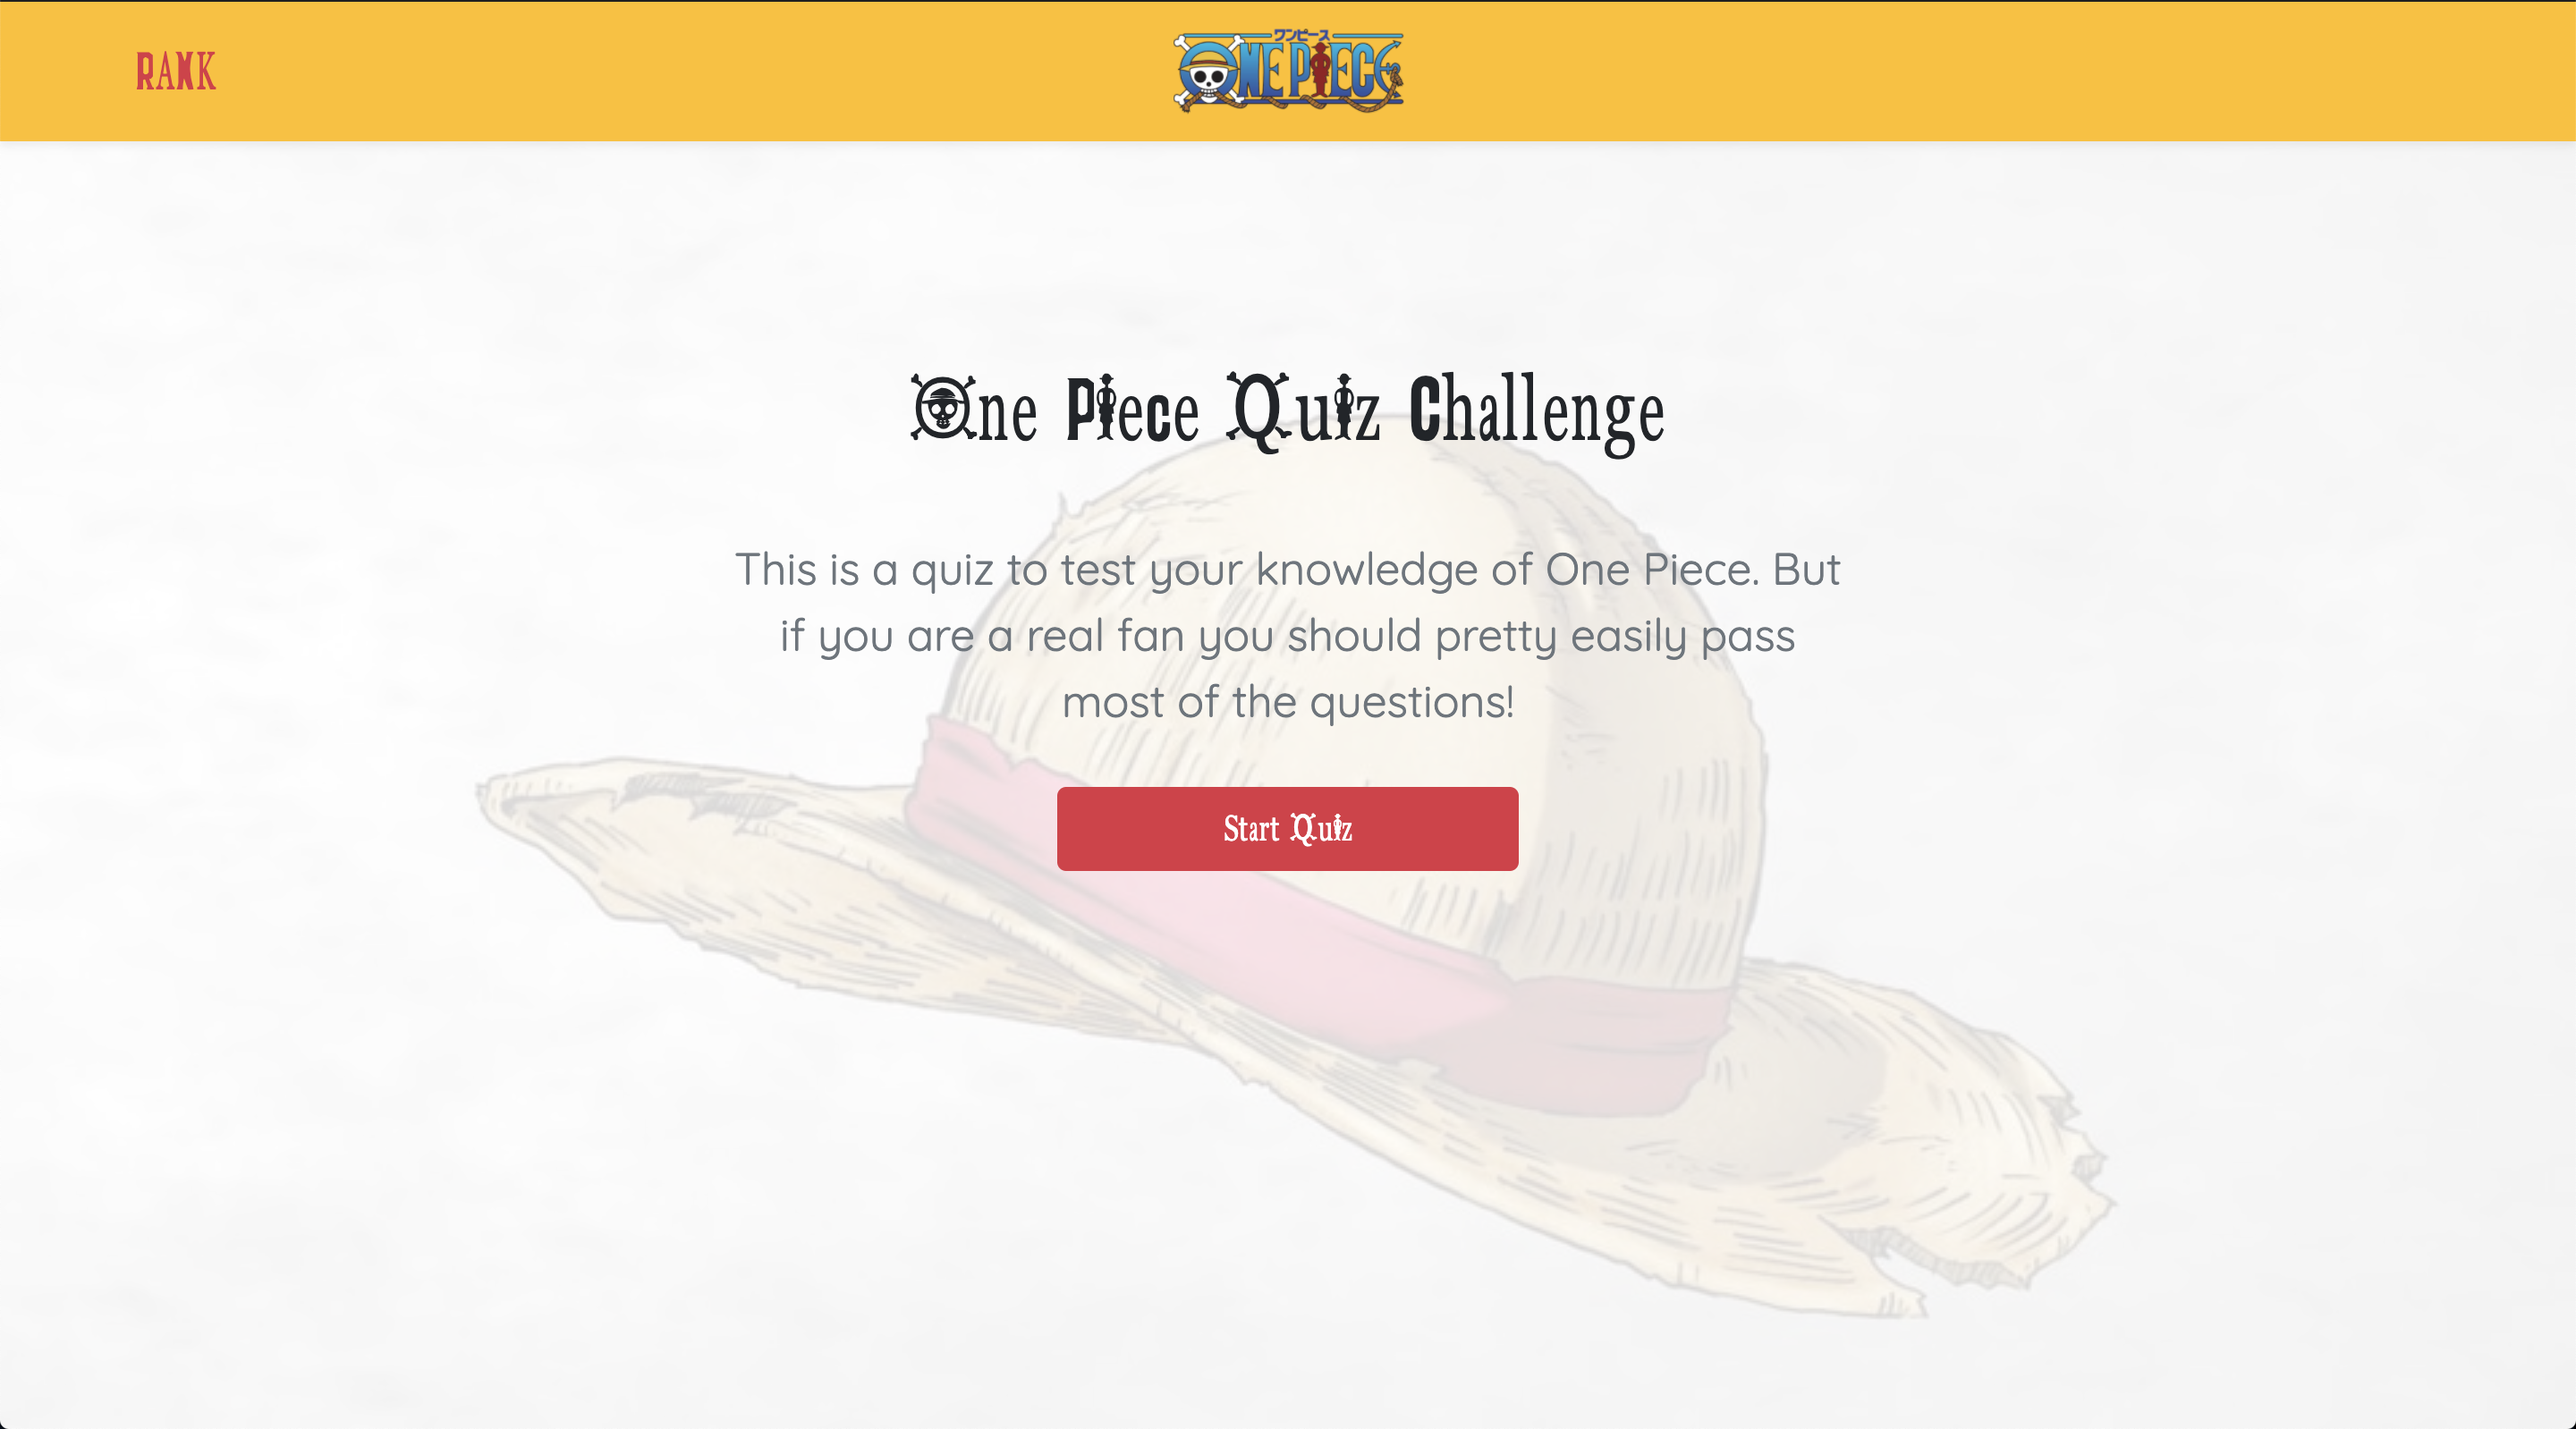
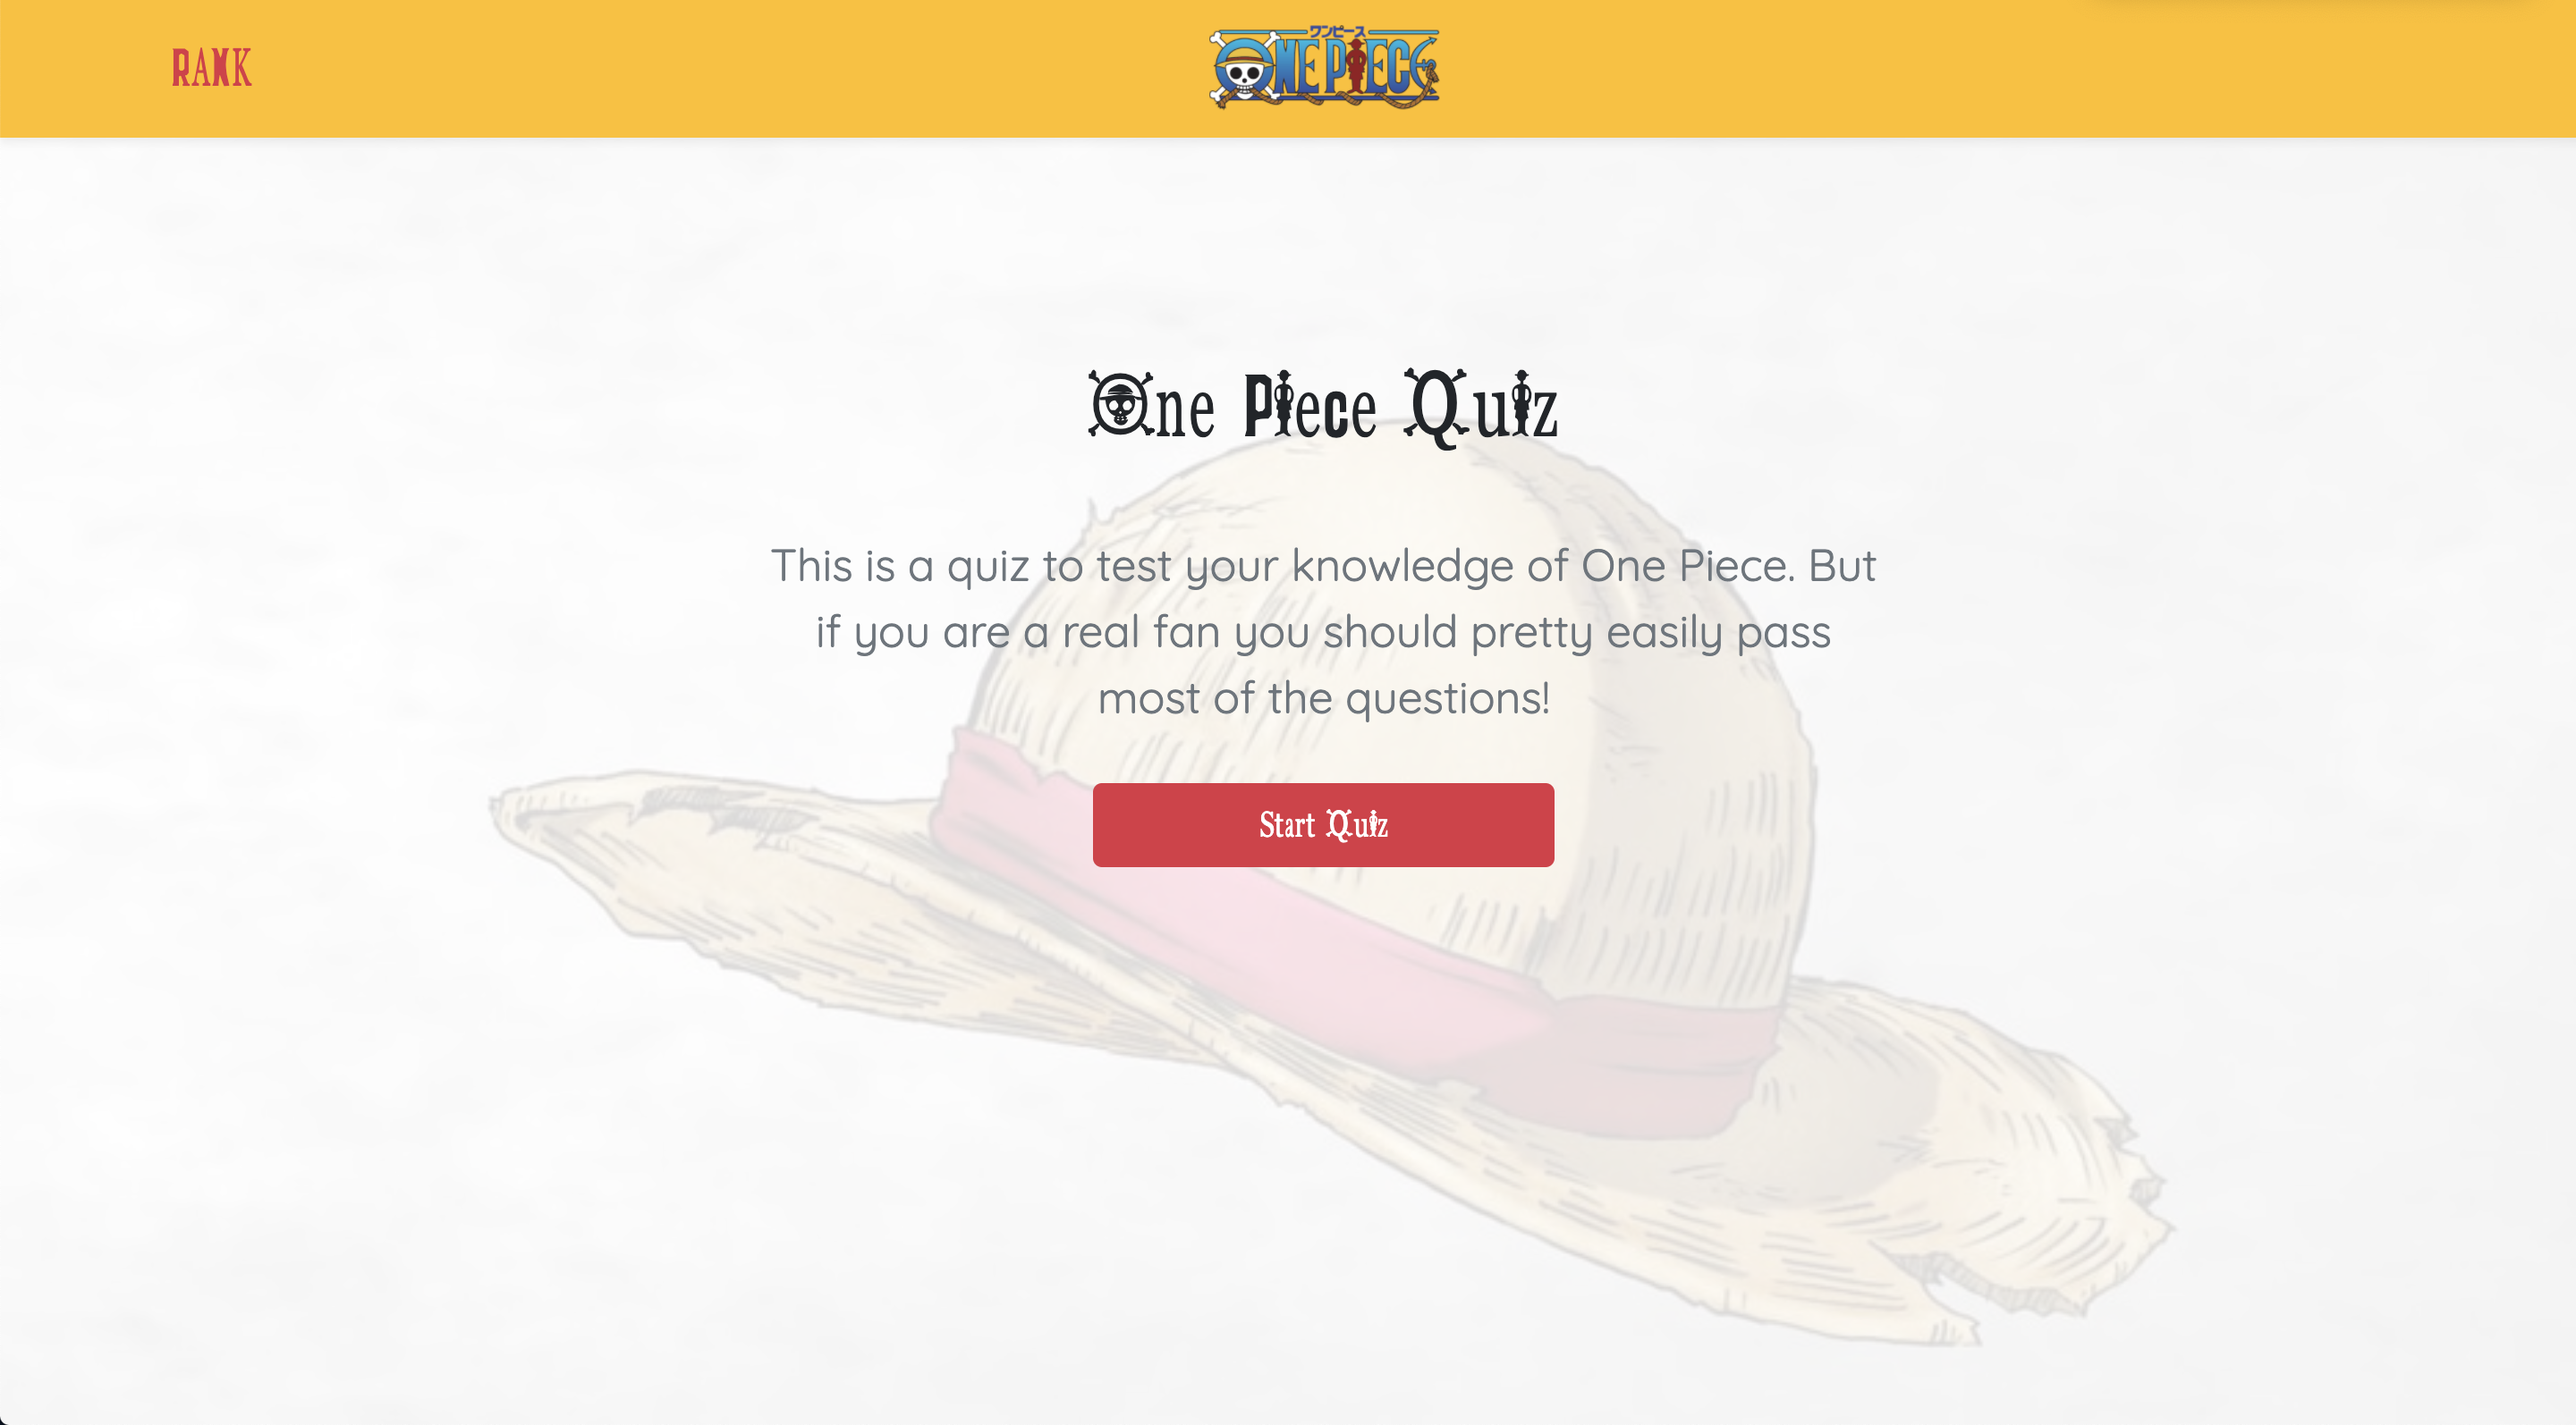
change home page title

diff --git a/index.html b/index.html
@@ -31,7 +31,7 @@
 
             <section id="intro" class="row py-lg-5">
                 <section class="col-lg-6 col-md-8 mx-auto">
-                    <h1 class="fw-light">One Piece Quiz Challenge</h1>
+                    <h1 class="fw-light">One Piece Quiz</h1>
                     <p class="lead text-muted">This is a quiz to test your knowledge of One Piece. But if you are a real
                         fan you should pretty easily pass most of the questions!</p>
                 </section>
